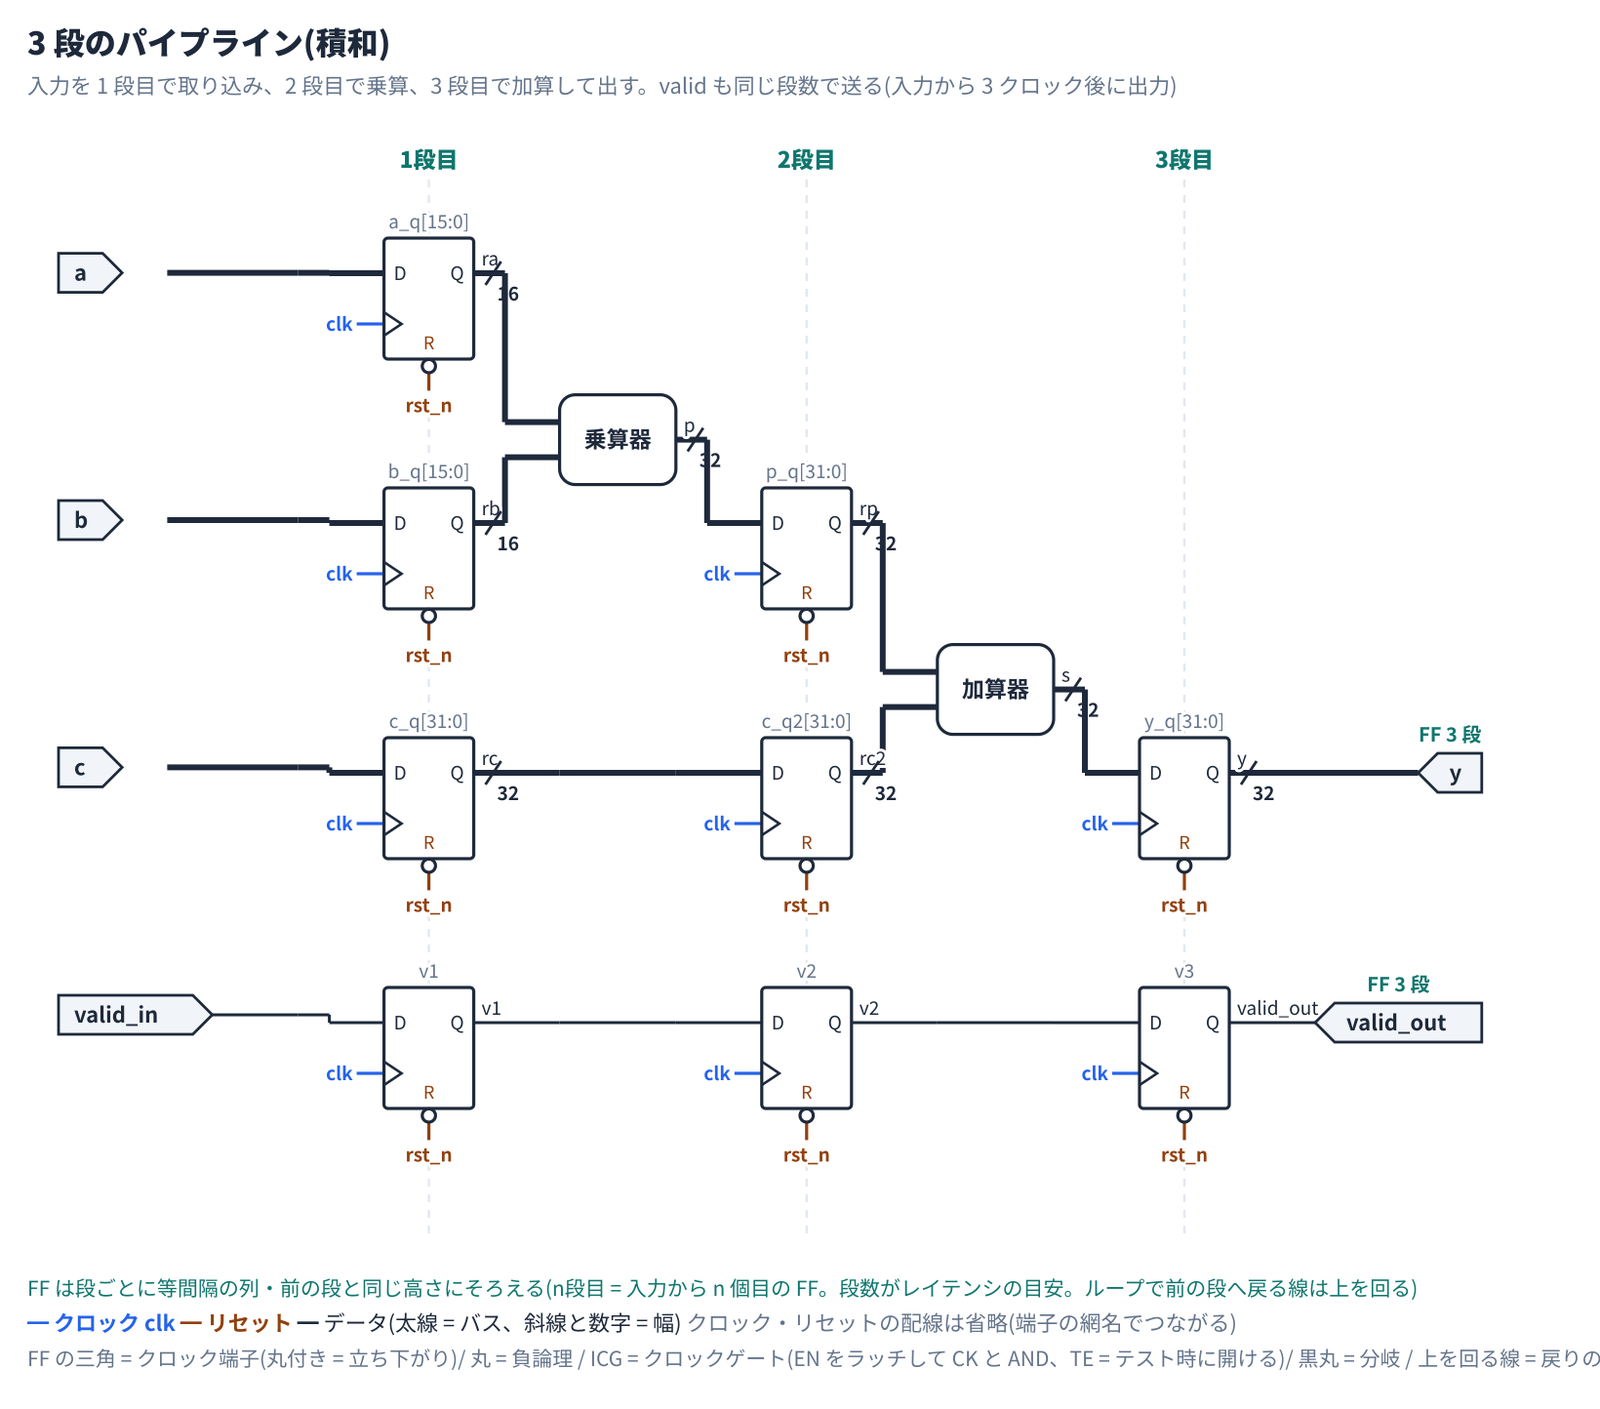
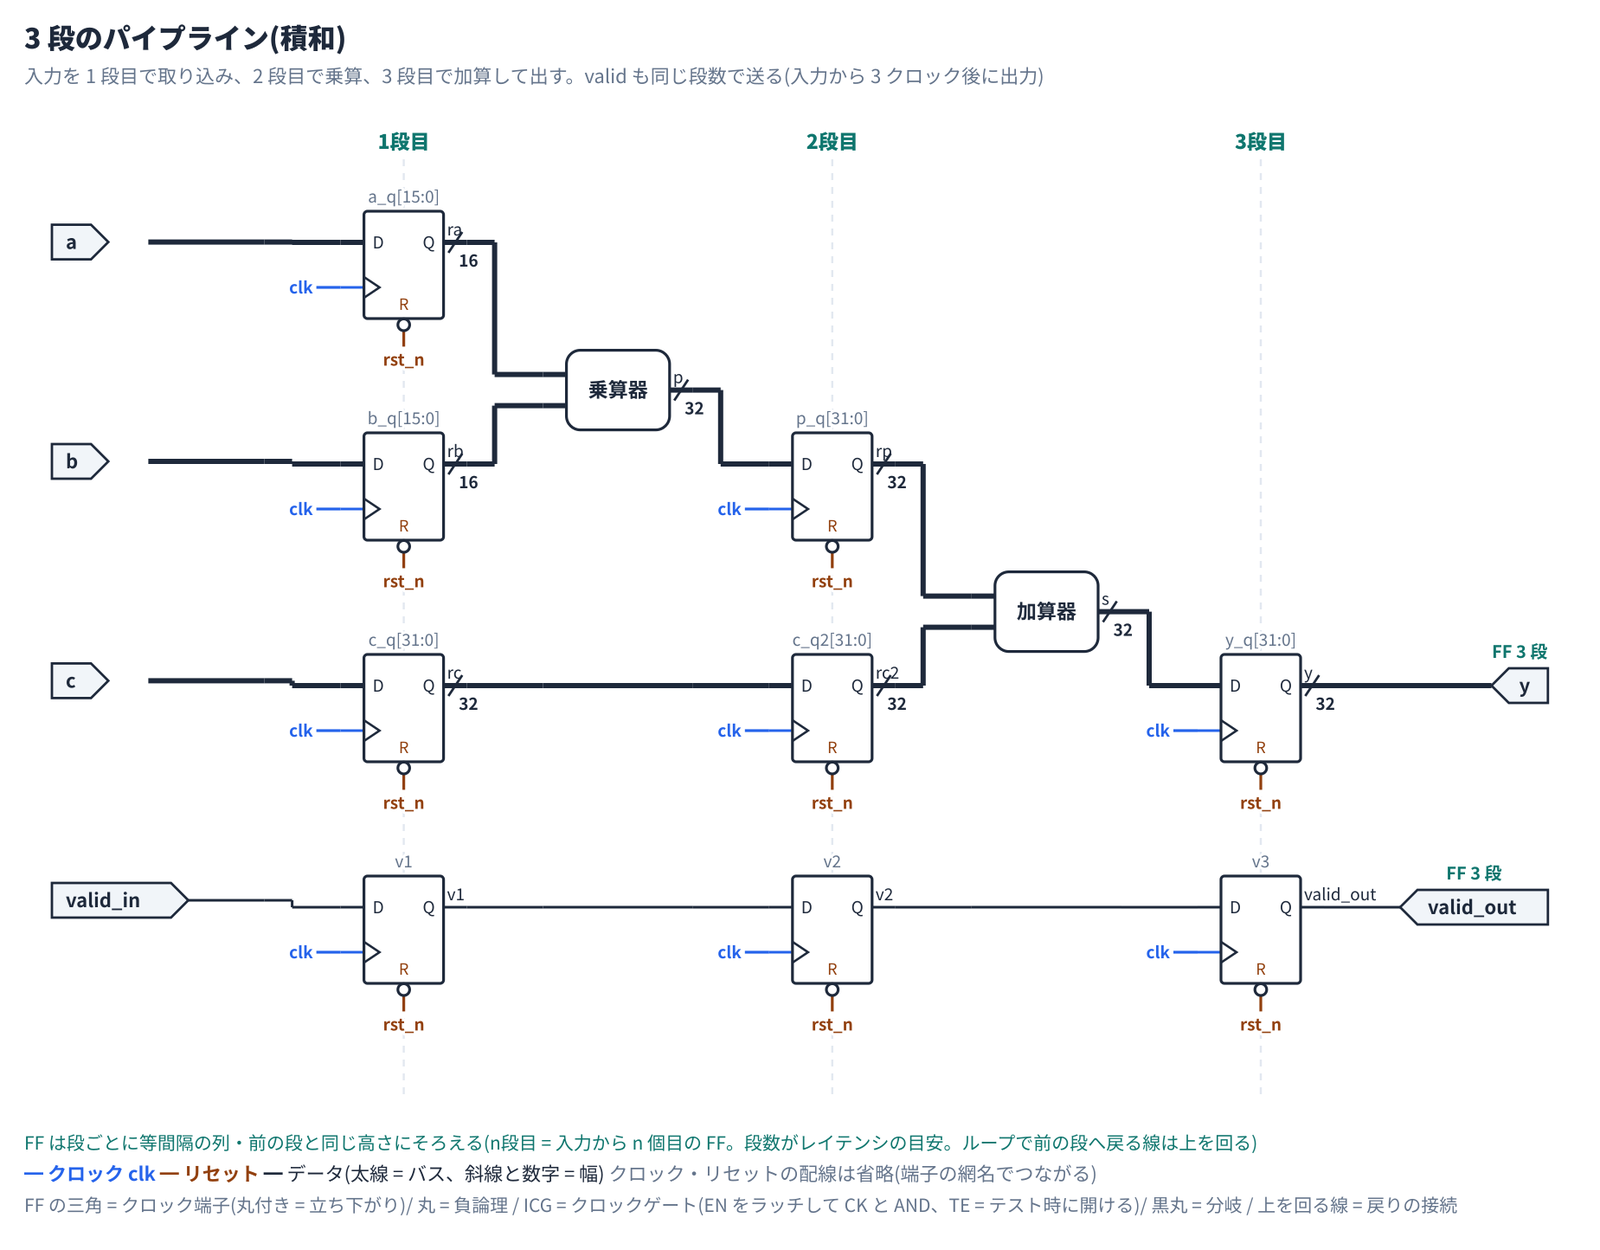
ゲート図: 左右の端子に水平の引出線(部品集の lead = 0.30)を付け、配線はその先で曲げる。引出線は網の色と太さ、網名とバス幅は引出線の上(R63)
Claude-Session: https://claude.ai/code/session_01XXd7JvWVmuTTSSCjMKzXau

diff --git a/scripts/gatediag.py b/scripts/gatediag.py
@@ -57,6 +57,7 @@ def wrap_label(txt, n=BLOCK_LINE, max_lines=3):
     return [t for t in out if t] or [""]
 CLK_PAL = ["#2563eb", "#9333ea", "#0891b2", "#db2777", "#16a34a", "#ca8a04"]
 RST_C = "#92400e"
+LEAD = milsym.lead() * 45   # 端子の引出線の長さ(部品集の lead。左右の端子から水平に出し、配線はその先で曲げる)
 GATE_U = 45                 # ゲート記号の大きさ: 部品集の 1 単位 = 45px(2 入力のゲートの高さ 0.80 → 36px、入力の間隔 0.30 → 13.5px)
 GATES = {"and", "or", "nand", "nor", "xor", "xnor", "not", "buf"}
 CONST = {"0", "1", "1'b0", "1'b1", "0'b0"}
@@ -338,6 +339,18 @@ class Gate:
         return self.warn
 
     # ---------- 形 ----------
+    def with_lead(self, n, g):
+        """左右の端子に水平の引出線を足す: 記号を LEAD だけ右へずらし、左の端子は左端、右の端子は LEAD 先へ。
+        端子のすぐ横で垂直の線がつながらないようにするため(上下の端子は x だけずらす)"""
+        w, h, P = g
+        n["_body"] = g
+        if n["kind"] in ("pin_in", "pin_out", "dummy"):
+            return g
+        Q = {}
+        for pn, (dx, dy, sd) in P.items():
+            Q[pn] = (dx + 2 * LEAD if sd == "R" else dx if sd == "L" else dx + LEAD, dy, sd)
+        return (w + 2 * LEAD, h, Q)
+
     def geom(self, n):
         """(幅, 高さ, {ピン: (dx, dy, 側)})"""
         k = n["kind"]
@@ -508,7 +521,7 @@ class Gate:
                     pos[u] = i
         self.cols = cols
         # 縦位置: つながるピンの高さにそろえる
-        G = {u: self.geom(N[u]) for u in N}
+        G = {u: self.with_lead(N[u], self.geom(N[u])) for u in N}
         self.G = G
         Y = {}
         GAP, DGAP = 30, 12
@@ -884,9 +897,18 @@ class Gate:
     def sym(self, u):
         n = self.nodes[u]
         k = n["kind"]
-        w, h, P = self.G[u]
+        w, h, P = n.get("_body", self.G[u])
         x, y = self.ox(u), self.Y[u] + self.top
         o = []
+        if k not in ("pin_in", "pin_out", "dummy"):          # 引出線(左右の端子から LEAD の長さ、水平)
+            for pn, (dx, dy, sd) in P.items():
+                if sd in ("L", "R") and (pn in n["pins"] or pn in ("d", "q", "y") or pn.startswith("i")):
+                    xa = x + dx + LEAD
+                    net = (n["pins"].get(pn) or (None, None))[1]
+                    lc = self.ncol_of(net) if net and not is_const(net) else INK      # 引出線は、つながる網の色と太さ
+                    lw = 3 if net and self.width.get(net, 1) > 1 else 1.5
+                    o.append(f'<path d="M{f(xa - LEAD if sd == "L" else xa)},{f(y + dy)} H{f(xa if sd == "L" else xa + LEAD)}" stroke="{lc}" stroke-width="{lw}"/>')
+            x += LEAD                                         # 記号の本体は LEAD だけ右
         S = f'fill="#fff" stroke="{INK}" stroke-width="1.6"'
         def bubble(cx, cy):
             return f'<circle cx="{f(cx)}" cy="{f(cy)}" r="3.6" {S}/>'
@@ -1103,7 +1125,7 @@ class Gate:
                 drop = self.X[c] - 8 - (k % 3) * 5
                 pxb, pyb = self.ox(b) + dx, Y[b] + dy + top
                 if sd == "L":
-                    end = pxb - (7.2 if bpn == "ck" and N[b].get("cell", {}).get("edge") == "neg" else 0)
+                    end = pxb                                 # 引出線の左端(立ち下がりの丸は引出線の先にある)
                     d_ = f"M{f(drop)},{f(ry)} L{f(drop)},{f(pyb)} L{f(end)},{f(pyb)}"
                 elif sd == "B":
                     yy = pyb + 10
@@ -1154,10 +1176,11 @@ class Gate:
                 continue
             x0, y0 = self.px(a, apn), Y[a] + self.G[a][2][apn][1] + top
             col = self.ncol_of(net)
-            o.append(f'<text class="h" x="{f(x0 + 4)}" y="{f(y0 - 4)}" font-size="9.5" fill="{col}">{esc(net)}</text>')
+            xl = x0 - (LEAD if N[a]["kind"] not in ("pin_in", "pin_out", "dummy") else 0)   # 引出線の根元(記号の出力の辺)
+            o.append(f'<text class="h" x="{f(xl + 2)}" y="{f(y0 - 4)}" font-size="9.5" fill="{col}">{esc(net)}</text>')
             bw = self.width.get(net, 1)
             if bw > 1:
-                xm = x0 + 10
+                xm = xl + LEAD / 2                                # バス幅の斜線は引出線の上(曲がり角から離す)
                 o.append(f'<path d="M{f(xm - 4)},{f(y0 + 6)} L{f(xm + 4)},{f(y0 - 6)}" stroke="{col}" stroke-width="1.4"/>'
                          f'<text x="{f(xm + 2)}" y="{f(y0 + 14)}" font-size="9.5" font-weight="700" fill="{col}">{bw}</text>')
         for u in N:

diff --git a/scripts/milsym.py b/scripts/milsym.py
@@ -40,6 +40,11 @@ def lib():
     return _LIB
 
 
+def lead():
+    """端子の引出線の長さ(単位)"""
+    return lib().get("lead", 0.30)
+
+
 def kinds():
     return list(lib()["parts"])
 

diff --git a/diagrams/gate-level/GUIDE.md b/diagrams/gate-level/GUIDE.md
@@ -28,6 +28,8 @@
 - 記号は規格の形: **MIL 論理記号の部品集 `symbols/mil806b.yaml`(MIL-STD-806B の寸法)から読む**(R63)。
   AND = 奥行き 1.00・高さ 0.80・前は半径 0.40 の半円、OR = 奥行き 1.00・高さ 0.80・直線 0.30 の先から半径 0.80 の円弧 2 つ・後ろは半径 0.80、
   バッファ = 3 辺 0.70 の正三角形、否定の丸 = 直径 0.16。ゲート図では 1 単位 = 45px。
+  **左右の端子には水平の引出線**(部品集の `lead` = 0.30 → 13.5px)を付け、配線はその先で曲げる。端子のすぐ横で垂直の線がつながらない。
+  引出線はつながる網の色・太さで描き、網名とバス幅の斜線は引出線の上に書く。
   形を変える・部品を足す時は部品集だけを直し、`python3 scripts/milsym.py check` と `python3 scripts/milsym.py catalog -o out/ --png`(寸法線つきの一覧)で確かめる。
   OR 系の前は半径 = 高さの円弧 2 つ(中心は反対側の後ろの角)で、頂点までの奥行きは √3/2 × 高さ。後ろも半径 = 高さの円弧。
   XOR の後ろの線は高さの 5/26 離す。AND は奥行き = 高さ(直線 h/2 + 半円)。
